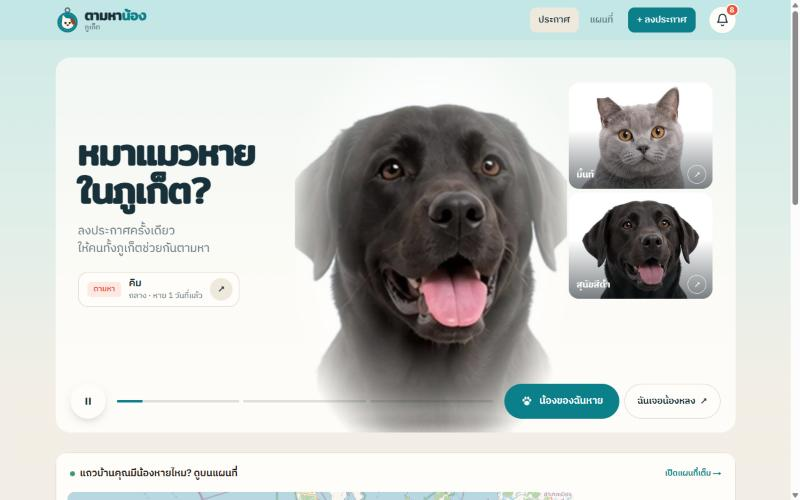
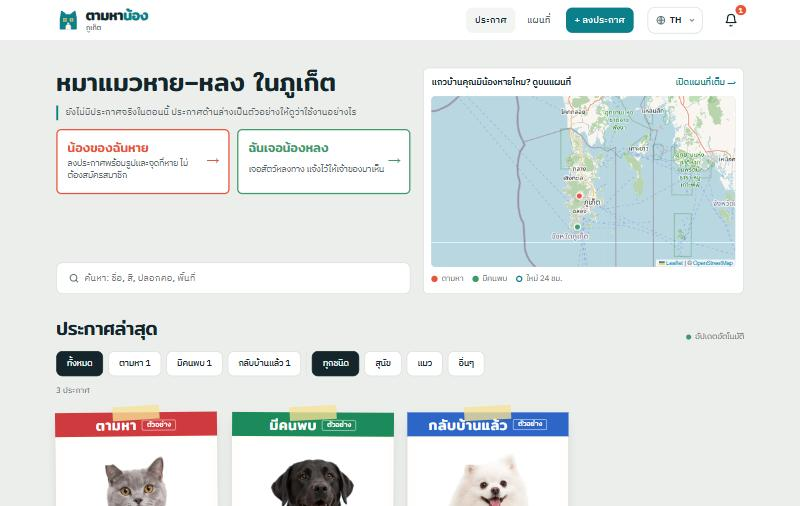
Update README: languages, auto-translation, new home page and screenshots

diff --git a/README.th.md b/README.th.md
@@ -4,7 +4,7 @@
 
 **เว็บจริง: [tamha-nong.vercel.app](https://tamha-nong.vercel.app)**
 
-เว็บรวมประกาศหมาแมวหายและที่มีคนพบในภูเก็ต ลงครั้งเดียว ไม่ต้องไล่โพสต์ทีละกลุ่มเฟซบุ๊ก
+เว็บรวมประกาศหมาแมวหายและที่มีคนพบในภูเก็ต ลงครั้งเดียว ไม่ต้องไล่โพสต์ทีละกลุ่มเฟซบุ๊ก เปิดมาเป็นภาษาไทย และเปลี่ยนเป็นอังกฤษ จีน หรือรัสเซียได้ สำหรับนักท่องเที่ยวและชาวต่างชาติ
 
 ![หน้าแรก](docs/home.jpg)
 
@@ -23,6 +23,8 @@
 - ประกาศใหม่ขึ้นทุกเครื่องทันที ประกาศเกิน 60 วันซ่อนอัตโนมัติ
 - หน้าผู้ดูแล: แก้ ซ่อน ลบ ดูรายงาน ส่งออก CSV
 - ติดตั้งเป็นแอปบนมือถือได้ (PWA)
+- 4 ภาษา: ไทย, English, 中文, Русский ข้อความที่คนพิมพ์ลงประกาศ (ชื่อ คำอธิบาย ค่าตอบแทน) แปลอัตโนมัติด้วย MyMemory API (ฟรี) และจำผลแปลไว้ในเบราว์เซอร์
+- หน้าแรกแบบบอร์ดประกาศชุมชน การ์ดเหมือนใบประกาศติดเสาไฟ มีเทปกาวและรอยปรุเบอร์โทร ตัวเลขสถิตินับเฉพาะประกาศจริง ไม่นับประกาศตัวอย่าง
 
 **เทคโนโลยี:** Next.js 15 · React 19 · Supabase (PostgreSQL, Storage, Realtime, Auth) · Leaflet + OpenStreetMap · Vercel
 
@@ -81,5 +83,4 @@ public/         ไอคอนและรูปตัวอย่าง
 ## ที่จะทำต่อ
 
 - แจ้งเตือนบนมือถือ (Web Push) เมื่อมีคนเห็นน้องหรือมีน้องหายใกล้บ้าน
-- ภาษาอังกฤษ
 - CAPTCHA (Cloudflare Turnstile)

diff --git a/README.md b/README.md
@@ -4,7 +4,7 @@
 
 **Live site: [tamha-nong.vercel.app](https://tamha-nong.vercel.app)**
 
-A lost-and-found pet board for Phuket. Post once, instead of copy-pasting into every Facebook group. The interface is in Thai, since it is built for people in Phuket.
+A lost-and-found pet board for Phuket. Post once, instead of copy-pasting into every Facebook group. The site opens in Thai and can be switched to English, Chinese or Russian for tourists and expats.
 
 ![Home page](docs/home.jpg)
 
@@ -23,6 +23,8 @@ A lost-and-found pet board for Phuket. Post once, instead of copy-pasting into e
 - New posts appear on every device instantly; posts older than 60 days are hidden automatically
 - Admin page: edit, hide, delete, review reports, export CSV
 - Installable on phones as a PWA
+- 4 languages: Thai, English, 中文, Русский. Text people type in their posts (pet name, description, reward) is machine-translated with the free MyMemory API and cached in the browser
+- Home page designed as a community notice board: posts look like paper flyers with tape and tear-off phone tabs; the counters only count real posts, not samples
 
 **Tech stack:** Next.js 15 · React 19 · Supabase (PostgreSQL, Storage, Realtime, Auth) · Leaflet + OpenStreetMap · Vercel
 
@@ -83,6 +85,5 @@ public/         icons and sample images
 ## Roadmap
 
 - Mobile push notifications (Web Push) when someone spots a pet or a pet goes missing nearby
-- English interface
 - CAPTCHA (Cloudflare Turnstile)
 
